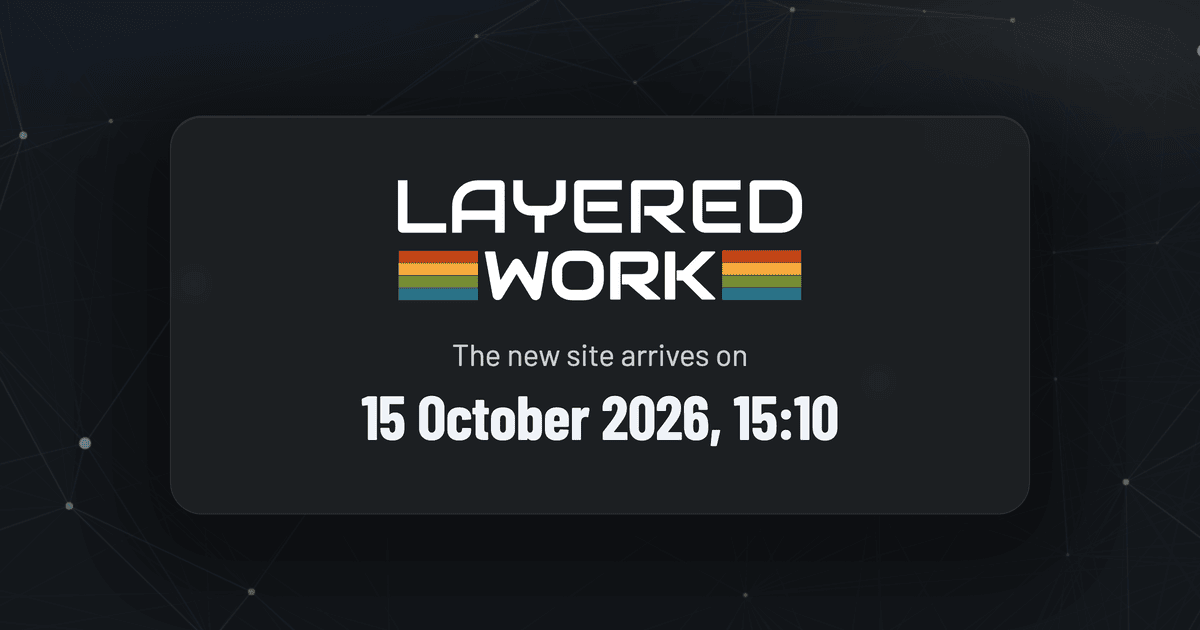
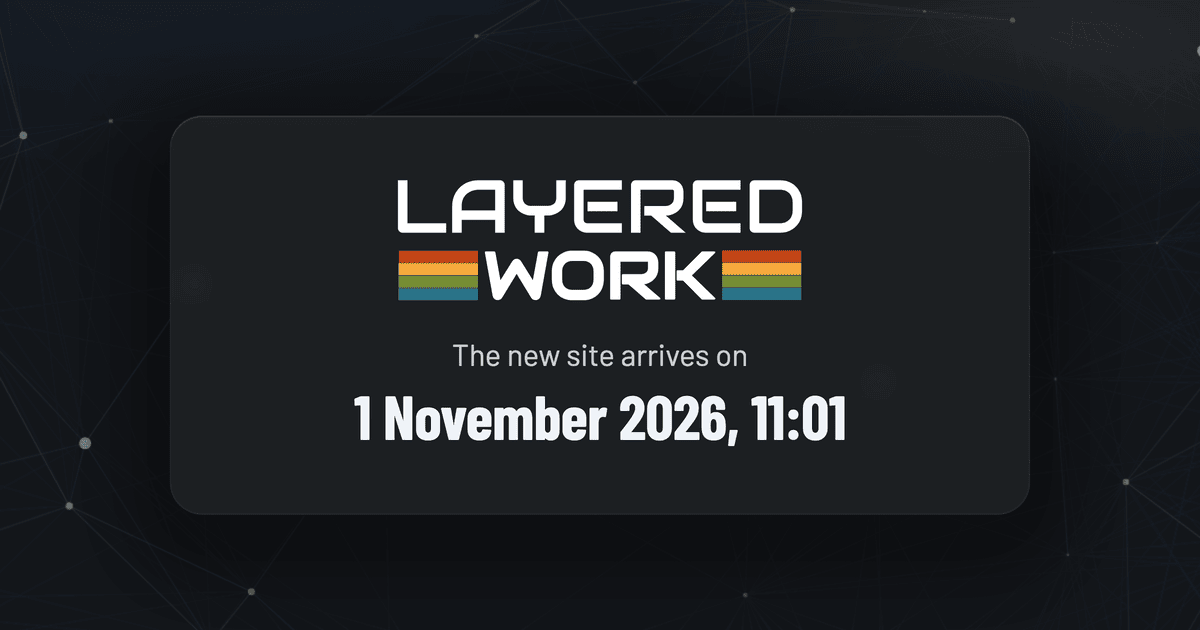
Chore: Move the launch to 1 November 2026, 11:01 (#382)
- LAUNCH is now 2026-11-01T11:01:00+01:00, Bregenz time, which is 10:01 UTC.
- og.png rendered again and shows "1 November 2026, 11:01" under the wordmark.

Changed region(s): [[0.2775, 0.6032, 0.7092, 0.7238]]

diff --git a/apps/website/src/site.ts b/apps/website/src/site.ts
@@ -15,9 +15,10 @@ import { CONTENT_LOCALES, DEFAULT_UMAMI_WEBSITE_ID } from "@layered/schemas";
  *
  * Written with its offset rather than as a bare local time, because a countdown
  * whose target depends on the reader's own clock counts to a different moment
- * for every reader. Bregenz is UTC+2 until the last Sunday in October.
+ * for every reader. Bregenz is UTC+1 from the last Sunday in October, which
+ * the moment falls after.
  */
-export const LAUNCH = "2026-10-15T15:10:00+02:00";
+export const LAUNCH = "2026-11-01T11:01:00+01:00";
 
 /**
  * The zone the site keeps time in.
